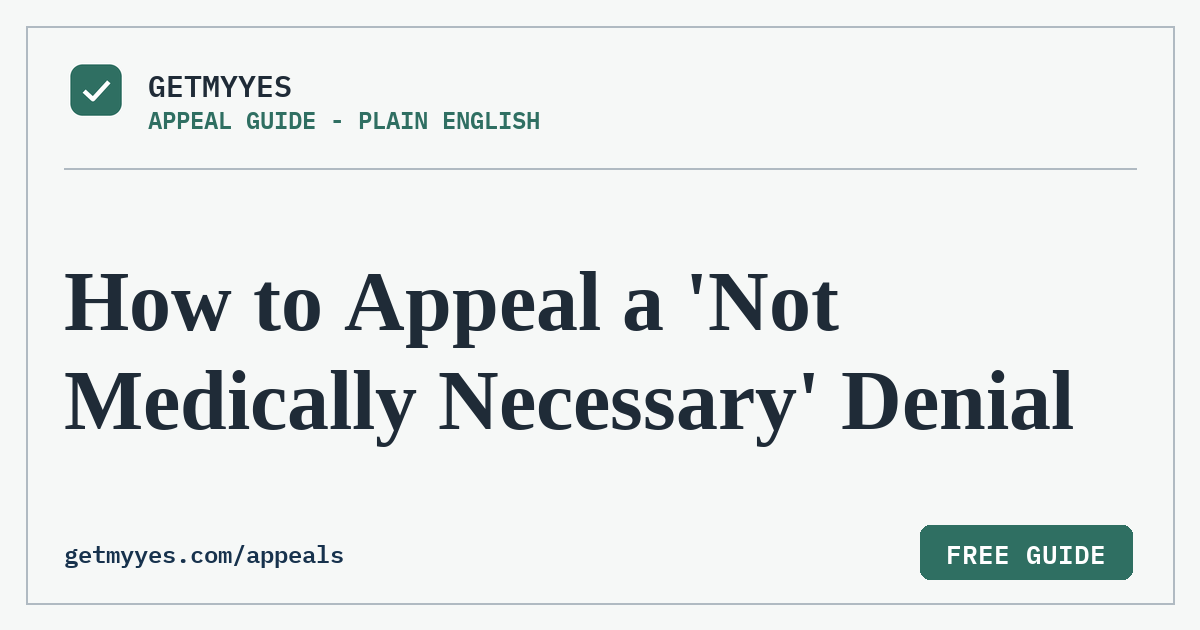
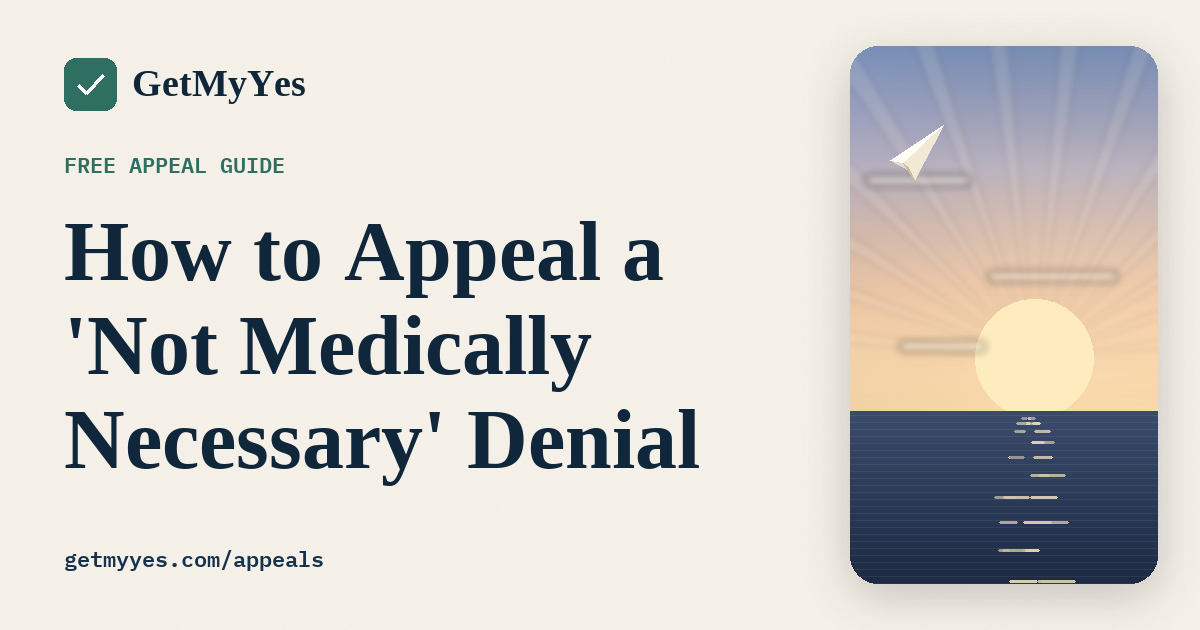
Link thumbnails in the dawn print
The homepage card now carries the hero's headline on warm paper beside a
dawn window, with a letter under the plain-English lens and the paper
plane; guide cards set their title beside a strip of the same dawn. Drawn
by tools/og-image.py, so the weekly guide job keeps the new look.

diff --git a/tools/og-image.py b/tools/og-image.py
@@ -18,7 +18,10 @@ import re
 import sys
 from pathlib import Path
 
-from PIL import Image, ImageDraw, ImageFont
+import math
+import random
+
+from PIL import Image, ImageDraw, ImageFilter, ImageFont
 
 ROOT = Path(__file__).resolve().parent.parent
 GUIDES = ROOT / "web" / "appeals"
@@ -41,6 +44,117 @@ MONO = FONTS / "IBMPlexMono-SemiBold.ttf"
 SANS = FONTS / "IBMPlexSans-Regular.ttf"
 SANS_BOLD = FONTS / "IBMPlexSans-Bold.ttf"
 MARK = ROOT / "web" / "icons" / "Icon-512.png"
+
+# The dawn print (web/home.css): warm paper, a sky that lifts from night to
+# morning over a print sea. Shared links use it, as the site does.
+PAPER_WARM = (250, 245, 236)
+LETTER_WARM = (255, 253, 248)
+HAIR = (227, 215, 196)
+SKY = [(126, 151, 196), (201, 195, 222), (240, 191, 166), (249, 210, 160)]
+SEA = [(59, 75, 107), (28, 42, 67)]
+
+
+def _ramp(stops: list[tuple[int, int, int]], t: float) -> tuple[int, int, int]:
+    t = min(1.0, max(0.0, t))
+    span = 1 / (len(stops) - 1)
+    i = min(len(stops) - 2, int(t / span))
+    k = (t - i * span) / span
+    a, b = stops[i], stops[i + 1]
+    return tuple(int(a[n] + (b[n] - a[n]) * k) for n in range(3))
+
+
+def dawn_window(w: int, h: int, *, sun_x: float = 0.7, plane: bool = True) -> Image.Image:
+    """A window onto the dawn: sky, a sun with soft rays and haze, and a
+    print sea with the sun's path glittering on it."""
+    horizon = int(h * 0.68)
+    img = Image.new("RGBA", (w, h))
+    draw = ImageDraw.Draw(img)
+    for y in range(horizon):
+        draw.line([(0, y), (w, y)], fill=(*_ramp(SKY, y / horizon), 255))
+
+    sx, sr = int(w * sun_x), int(h * 0.11)
+    sy = horizon - int(sr * 0.9)
+    glow = Image.new("RGBA", (w, h), (0, 0, 0, 0))
+    ImageDraw.Draw(glow).ellipse((sx - sr * 4, sy - sr * 4, sx + sr * 4, sy + sr * 4), fill=(255, 232, 186, 120))
+    img.alpha_composite(glow.filter(ImageFilter.GaussianBlur(sr * 1.6)))
+    rays = Image.new("RGBA", (w, h), (0, 0, 0, 0))
+    rd = ImageDraw.Draw(rays)
+    for i in range(14):
+        a = math.pi + (i + 0.5) * math.pi / 14
+        rd.polygon([(sx, sy),
+                    (sx + math.cos(a - 0.03) * w * 1.5, sy + math.sin(a - 0.03) * w * 1.5),
+                    (sx + math.cos(a + 0.03) * w * 1.5, sy + math.sin(a + 0.03) * w * 1.5)],
+                   fill=(255, 244, 220, 26))
+    img.alpha_composite(rays.filter(ImageFilter.GaussianBlur(3)))
+    draw = ImageDraw.Draw(img)
+    draw.ellipse((sx - sr, sy - sr, sx + sr, sy + sr), fill=(255, 236, 190, 255))
+
+    haze = Image.new("RGBA", (w, h), (0, 0, 0, 0))
+    hd = ImageDraw.Draw(haze)
+    for (cx, cy, hw) in ((0.22, 0.24, 0.34), (0.66, 0.42, 0.42), (0.3, 0.55, 0.28)):
+        hd.rounded_rectangle((int(w * (cx - hw / 2)), int(h * cy), int(w * (cx + hw / 2)), int(h * cy) + 10),
+                             radius=5, fill=(255, 248, 238, 120))
+    img.alpha_composite(haze.filter(ImageFilter.GaussianBlur(4)))
+
+    # The sea, drawn last so it covers the lower half of the sun.
+    draw = ImageDraw.Draw(img)
+    for y in range(horizon, h):
+        draw.line([(0, y), (w, y)], fill=(*_ramp(SEA, (y - horizon) / max(1, h - horizon)), 255))
+    # Swells and glitter go on their own layer so their alpha blends.
+    fx = Image.new("RGBA", (w, h), (0, 0, 0, 0))
+    draw = ImageDraw.Draw(fx)
+    for y in range(horizon + 4, h, 7):
+        draw.line([(0, y), (w, y)], fill=(255, 255, 255, 16))
+    rnd = random.Random(7)
+    for row in range(10):
+        depth = (row + 1) / 10
+        y = horizon + 4 + (h - horizon - 8) * depth * depth
+        for _ in range(4):
+            x = sx + (rnd.random() - 0.5) * (16 + depth * w * 0.22)
+            ln = 4 + depth * 22 * (0.5 + rnd.random())
+            draw.rounded_rectangle((x - ln / 2, y, x + ln / 2, y + 2), radius=1,
+                                   fill=(255, 236, 196, int(120 + 100 * rnd.random())))
+    img.alpha_composite(fx)
+
+    if plane:
+        _paper_plane(img, int(w * 0.22), int(h * 0.2), int(w * 0.18))
+    return img
+
+
+def _paper_plane(img: Image.Image, x: int, y: int, size: int) -> None:
+    """The site's paper plane (web/media/home/orn-plane.svg), nose up-right."""
+    k = size / 160
+
+    def pt(px: float, py: float) -> tuple[float, float]:
+        return (x + (px - 214) * k, y + (py - 97) * k)
+
+    d = ImageDraw.Draw(img)
+    d.polygon([pt(138, 118), pt(292, 18), pt(196, 150)], fill=(231, 220, 200, 255))
+    d.polygon([pt(138, 118), pt(292, 18), pt(176, 128)], fill=(255, 253, 247, 255))
+    d.polygon([pt(176, 128), pt(292, 18), pt(206, 176), pt(190, 140)], fill=(242, 232, 214, 255))
+    d.polygon([pt(190, 140), pt(206, 176), pt(176, 128)], fill=(205, 189, 159, 255))
+
+
+def rounded(img: Image.Image, radius: int) -> Image.Image:
+    mask = Image.new("L", img.size, 0)
+    ImageDraw.Draw(mask).rounded_rectangle((0, 0, img.width - 1, img.height - 1), radius=radius, fill=255)
+    out = Image.new("RGBA", img.size, (0, 0, 0, 0))
+    out.paste(img, (0, 0), mask)
+    return out
+
+
+def paper(size: tuple[int, int]) -> Image.Image:
+    """Warm paper with a faint grain."""
+    img = Image.new("RGB", size, PAPER_WARM)
+    noise = Image.effect_noise(size, 18).convert("L")
+    grain = Image.new("RGB", size, (120, 110, 96))
+    return Image.composite(grain, img, noise.point(lambda v: int(v * 0.07)))
+
+
+def shadow(img: Image.Image, box: tuple[int, int, int, int], radius: int, blur: int = 22, alpha: int = 70) -> None:
+    layer = Image.new("RGBA", img.size, (0, 0, 0, 0))
+    ImageDraw.Draw(layer).rounded_rectangle(box, radius=radius, fill=(16, 38, 59, alpha))
+    img.alpha_composite(layer.filter(ImageFilter.GaussianBlur(blur)))
 
 
 def wrap_to_width(
@@ -163,87 +277,66 @@ def render_favicon() -> Path:
 
 
 def render_home() -> Path:
-    img = Image.new("RGB", (W, H), PAPER)
+    """The homepage card: the hero's headline on paper beside a dawn window,
+    where a letter lies under the plain-English lens."""
+    img = paper((W, H)).convert("RGBA")
     draw = ImageDraw.Draw(img, "RGBA")
 
-    draw.rounded_rectangle(
-        (28, 28, W - 28, H - 28),
-        radius=24,
-        fill=LETTER,
-        outline=(*NAVY, 45),
-        width=2,
-    )
-    draw_brand_mark(draw, (66, 58, 126, 118))
-    draw.text(
-        (146, 70),
-        "GetMyYes",
-        font=ImageFont.truetype(str(SANS_BOLD), 31),
-        fill=NAVY_DARK,
-    )
+    draw_brand_mark(draw, (64, 56, 120, 112))
+    draw.text((136, 60), "GetMyYes", font=ImageFont.truetype(str(SERIF), 42), fill=NAVY_DARK)
 
-    title_font, title_lines = fit_title(
-        draw,
-        "Health insurance appeal help, step by step.",
-        650,
-    )
-    y = 164
-    for line in title_lines:
-        draw.text((66, y), line, font=title_font, fill=NAVY_DARK)
-        y += int(title_font.size * 1.08)
+    head = ImageFont.truetype(str(SERIF), 78)
+    y = 160
+    draw.text((62, y), "Understand", font=head, fill=NAVY_DARK)
+    draw.text((62, y + 82), "the denial.", font=head, fill=NAVY_DARK)
+    accent = "Build the appeal."
+    aw = draw.textlength(accent, font=head)
+    mark = Image.new("RGBA", img.size, (0, 0, 0, 0))
+    ImageDraw.Draw(mark).rounded_rectangle((58, y + 164 + 60, 66 + aw, y + 164 + 76), radius=8,
+                                           fill=(47, 111, 98, 52))
+    img.alpha_composite(mark)
+    draw = ImageDraw.Draw(img, "RGBA")
+    draw.text((62, y + 164), accent, font=head, fill=TEAL)
 
-    sub_font = ImageFont.truetype(str(SANS), 28)
-    sub_lines = wrap_to_width(
-        draw,
-        "Understand your denial, review a free summary, and build paperwork you control.",
-        sub_font,
-        660,
-    )
-    y += 18
-    for line in sub_lines:
-        draw.text((68, y), line, font=sub_font, fill=INK_SOFT)
-        y += 42
+    sub = ImageFont.truetype(str(SANS), 28)
+    draw.text((64, 446), "Your denial letter, in plain English.", font=sub, fill=INK_SOFT)
 
-    card = (800, 94, 1136, 484)
-    draw.rounded_rectangle(
-        card,
-        radius=22,
-        fill=TEAL_SOFT,
-        outline=(*TEAL, 90),
-        width=2,
-    )
-    draw.text(
-        (834, 126),
-        "A clear path forward",
-        font=ImageFont.truetype(str(SANS_BOLD), 24),
-        fill=NAVY_DARK,
-    )
-    step_font = ImageFont.truetype(str(SANS), 22)
-    number_font = ImageFont.truetype(str(SANS_BOLD), 21)
-    steps = [
-        "Add your denial",
-        "Review the free summary",
-        "Choose what to do next",
-    ]
-    for index, label in enumerate(steps, start=1):
-        cy = 204 + (index - 1) * 86
-        draw.ellipse((832, cy - 5, 874, cy + 37), fill=TEAL)
-        number_width = draw.textlength(str(index), font=number_font)
-        draw.text(
-            (853 - number_width / 2, cy + 3),
-            str(index),
-            font=number_font,
-            fill=LETTER,
-        )
-        draw.text((892, cy + 2), label, font=step_font, fill=INK)
+    chip_font = ImageFont.truetype(str(MONO), 20)
+    chip_text = "FREE PREVIEW  ·  NO CARD"
+    cw = int(draw.textlength(chip_text, font=chip_font)) + 44
+    draw.rounded_rectangle((64, 528, 64 + cw, 574), radius=23, fill=NAVY)
+    draw.text((86, 539), chip_text, font=chip_font, fill=LETTER)
 
-    chip_font = ImageFont.truetype(str(SANS_BOLD), 20)
-    chip_text = "FREE PREVIEW  |  NO CARD  |  NO SUBSCRIPTION"
-    chip_width = int(draw.textlength(chip_text, font=chip_font)) + 38
-    draw.rounded_rectangle((66, 530, 66 + chip_width, 580), radius=12, fill=NAVY)
-    draw.text((85, 542), chip_text, font=chip_font, fill=LETTER)
+    # The dawn window, and the letter under the lens.
+    wx0, wy0, wx1, wy1 = 742, 46, 1158, 584
+    shadow(img, (wx0, wy0 + 14, wx1, wy1 + 10), 30, alpha=60)
+    img.alpha_composite(rounded(dawn_window(wx1 - wx0, wy1 - wy0, sun_x=0.7), 30), (wx0, wy0))
+
+    sheet = Image.new("RGBA", (330, 300), (0, 0, 0, 0))
+    sd = ImageDraw.Draw(sheet)
+    sd.rounded_rectangle((0, 0, 329, 299), radius=14, fill=(*LETTER_WARM, 255), outline=(*HAIR, 255), width=2)
+    sd.text((26, 22), "NOTICE OF DENIAL", font=ImageFont.truetype(str(MONO), 15), fill=(95, 110, 120, 255))
+    sd.line((26, 50, 304, 50), fill=(23, 50, 77, 40), width=2)
+    widths = [250, 210, 236, 180, 226, 150]
+    for i, lw in enumerate(widths):
+        yy = 72 + i * 36
+        sd.rounded_rectangle((26, yy, 26 + lw, yy + 10), radius=5,
+                             fill=(23, 50, 77, 255) if i < 2 else (201, 207, 212, 255))
+    ly = 72 + 2 * 36 - 14
+    sd.rounded_rectangle((14, ly, 316, ly + 38), radius=12, fill=(*TEAL_SOFT, 255),
+                         outline=(*TEAL, 255), width=2)
+    sd.rounded_rectangle((26, ly + 14, 26 + 236, ly + 24), radius=5, fill=(23, 50, 77, 255))
+    tab_font = ImageFont.truetype(str(SANS_BOLD), 15)
+    tw = int(sd.textlength("Plain English", font=tab_font)) + 22
+    sd.rounded_rectangle((300 - tw, ly - 12, 300, ly + 12), radius=12, fill=(*TEAL, 255))
+    sd.text((300 - tw + 11, ly - 10), "Plain English", font=tab_font, fill=(255, 255, 255, 255))
+    sheet = sheet.rotate(-4, resample=Image.BICUBIC, expand=True)
+    sx, sy = 704, 300
+    shadow(img, (sx + 20, sy + 30, sx + sheet.width - 10, sy + sheet.height), 16, blur=18, alpha=90)
+    img.alpha_composite(sheet, (sx, sy))
 
     out = ROOT / "web" / "og-image.png"
-    img.save(out, "PNG", optimize=True)
+    img.convert("RGB").save(out, "PNG", optimize=True)
     return out
 
 
@@ -258,45 +351,31 @@ def render_brand_assets() -> list[Path]:
 
 
 def render(slug: str, title: str) -> Path:
-    img = Image.new("RGB", (W, H), PAPER)
+    """A guide card: the guide's title on paper beside a strip of dawn."""
+    img = paper((W, H)).convert("RGBA")
     draw = ImageDraw.Draw(img, "RGBA")
 
-    draw.rectangle((26, 26, W - 26, H - 26), outline=INK_FAINT, width=2)
-
     x = 64
-    mark = Image.open(MARK).convert("RGBA").resize((64, 64), Image.LANCZOS)
-    img.paste(mark, (x, 58), mark)
-    mono_lg = ImageFont.truetype(str(MONO), 30)
-    mono_sm = ImageFont.truetype(str(MONO), 24)
-    draw.text((x + 84, 66), "GETMYYES", font=mono_lg, fill=INK)
-    draw.text(
-        (x + 84, 104),
-        "APPEAL GUIDE - PLAIN ENGLISH",
-        font=mono_sm,
-        fill=TEAL,
-    )
-    draw.line((x, 168, W - 64, 168), fill=INK_FAINT, width=2)
+    draw_brand_mark(draw, (x, 58, x + 52, 110))
+    draw.text((x + 68, 62), "GetMyYes", font=ImageFont.truetype(str(SERIF), 38), fill=NAVY_DARK)
+    draw.text((x, 150), "FREE APPEAL GUIDE", font=ImageFont.truetype(str(MONO), 22), fill=TEAL)
 
-    font, lines = fit_title(draw, title, W - 2 * 64)
-    line_height = int(font.size * 1.18)
-    total = line_height * len(lines)
-    y = 168 + ((H - 90 - 168) - total) // 2
+    font, lines = fit_title(draw, title, 700)
+    line_height = int(font.size * 1.12)
+    y = 196 + max(0, (300 - line_height * len(lines)) // 2)
     for line in lines:
-        draw.text((x, y), line, font=font, fill=INK)
+        draw.text((x, y), line, font=font, fill=NAVY_DARK)
         y += line_height
 
-    draw.text(
-        (x, H - 92),
-        "getmyyes.com/appeals",
-        font=mono_sm,
-        fill=(*NAVY, 170),
-    )
-    chip = info_chip("FREE GUIDE")
-    img.paste(chip, (W - 64 - chip.width, H - 78 - chip.height // 2), chip)
+    draw.text((x, H - 86), "getmyyes.com/appeals", font=ImageFont.truetype(str(MONO), 22), fill=(*NAVY, 190))
+
+    wx0, wy0, wx1, wy1 = 850, 46, 1158, 584
+    shadow(img, (wx0, wy0 + 14, wx1, wy1 + 10), 28, alpha=55)
+    img.alpha_composite(rounded(dawn_window(wx1 - wx0, wy1 - wy0, sun_x=0.6), 28), (wx0, wy0))
 
     OUT.mkdir(parents=True, exist_ok=True)
     out = OUT / f"{slug}.png"
-    img.save(out, "PNG", optimize=True)
+    img.convert("RGB").save(out, "PNG", optimize=True)
     return out
 
 
